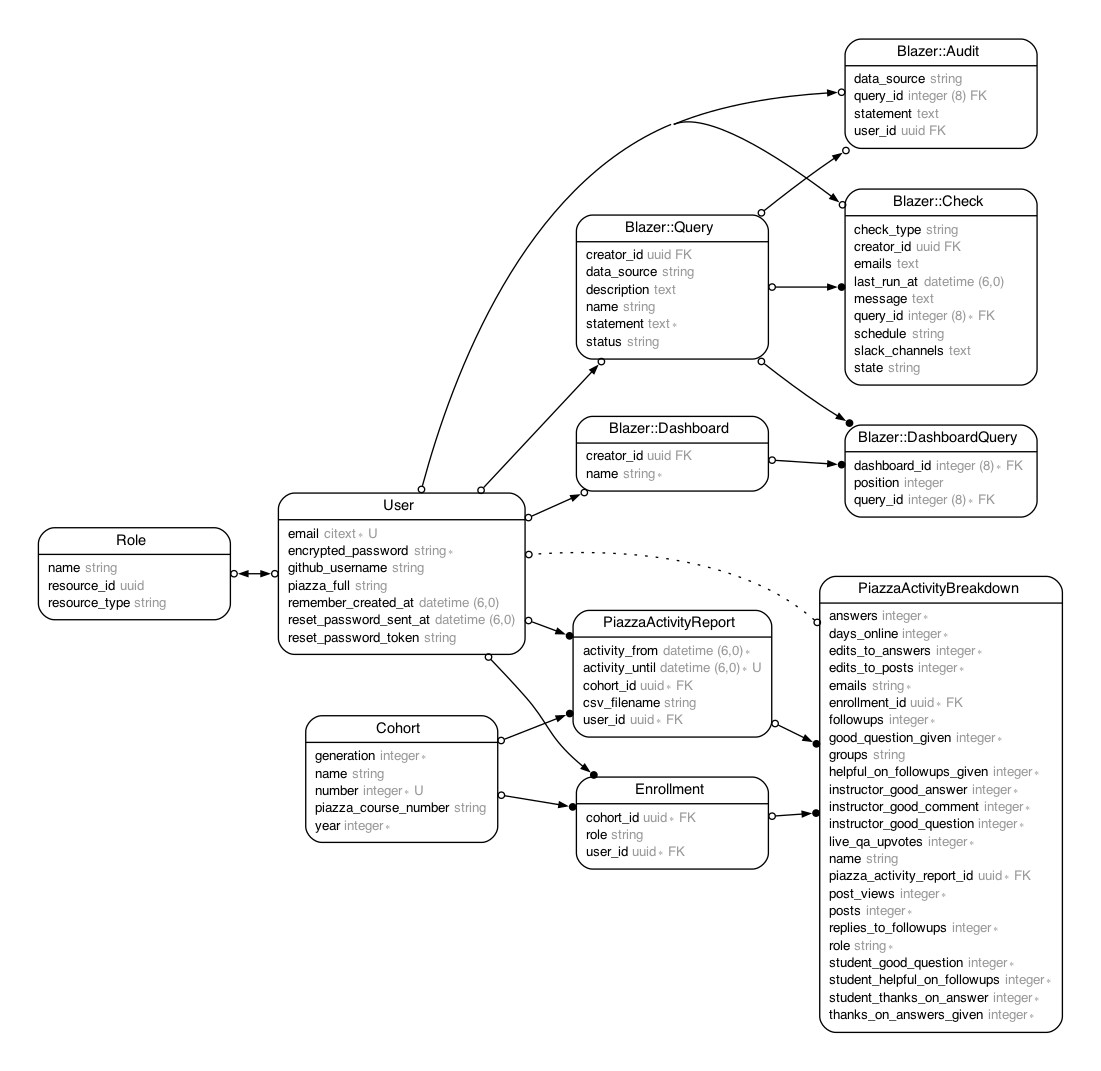
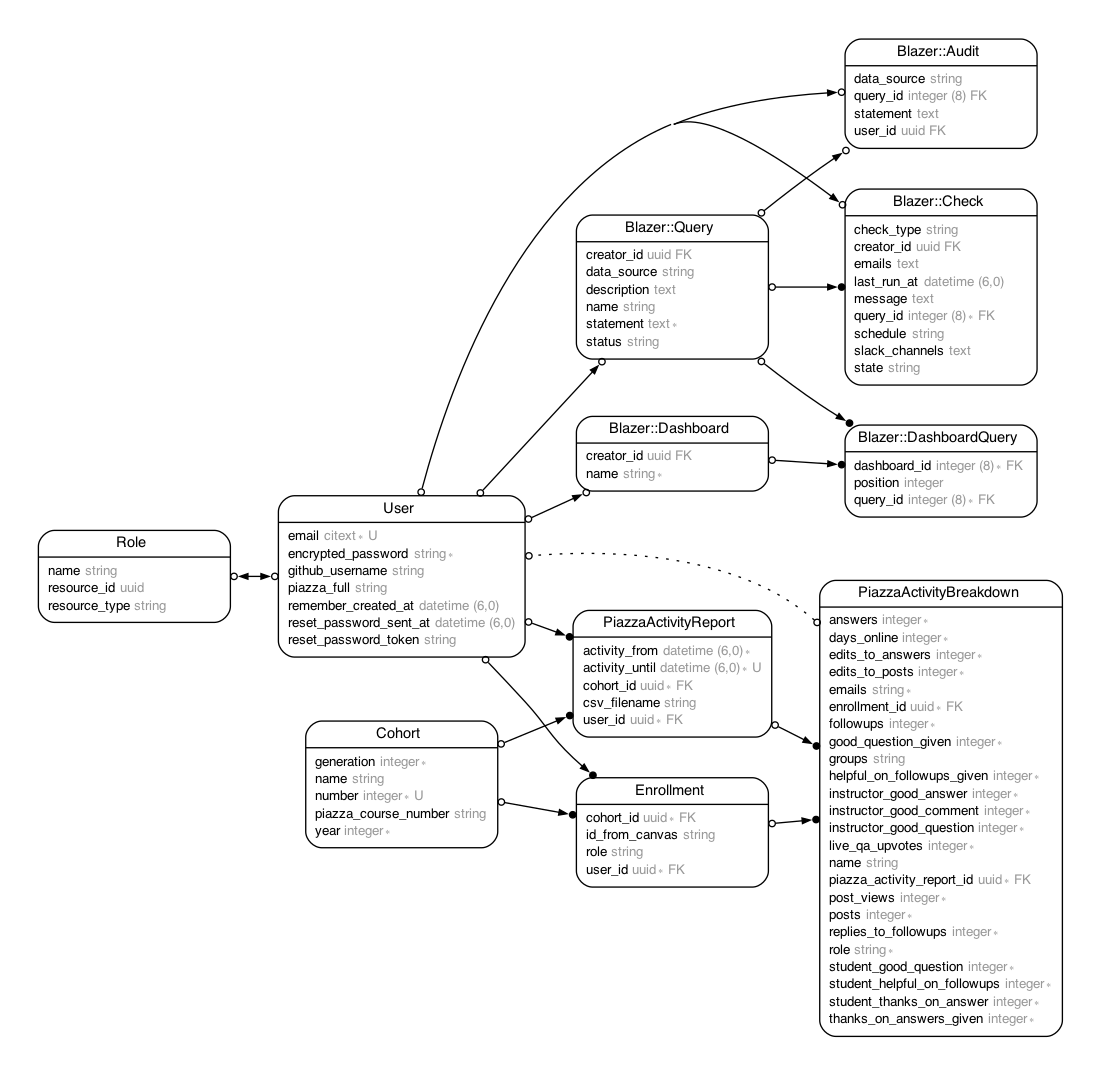
Add id_from_canvas to Enrollment

diff --git a/app/models/enrollment.rb b/app/models/enrollment.rb
@@ -2,17 +2,19 @@
 #
 # Table name: enrollments
 #
-#  id         :uuid             not null, primary key
-#  role       :string
-#  created_at :datetime         not null
-#  updated_at :datetime         not null
-#  cohort_id  :uuid             not null
-#  user_id    :uuid             not null
+#  id             :uuid             not null, primary key
+#  id_from_canvas :string
+#  role           :string
+#  created_at     :datetime         not null
+#  updated_at     :datetime         not null
+#  cohort_id      :uuid             not null
+#  user_id        :uuid             not null
 #
 # Indexes
 #
-#  index_enrollments_on_cohort_id  (cohort_id)
-#  index_enrollments_on_user_id    (user_id)
+#  index_enrollments_on_cohort_id       (cohort_id)
+#  index_enrollments_on_id_from_canvas  (id_from_canvas) UNIQUE
+#  index_enrollments_on_user_id         (user_id)
 #
 # Foreign Keys
 #

diff --git a/spec/models/enrollment_spec.rb b/spec/models/enrollment_spec.rb
@@ -2,17 +2,19 @@
 #
 # Table name: enrollments
 #
-#  id         :uuid             not null, primary key
-#  role       :string
-#  created_at :datetime         not null
-#  updated_at :datetime         not null
-#  cohort_id  :uuid             not null
-#  user_id    :uuid             not null
+#  id             :uuid             not null, primary key
+#  id_from_canvas :string
+#  role           :string
+#  created_at     :datetime         not null
+#  updated_at     :datetime         not null
+#  cohort_id      :uuid             not null
+#  user_id        :uuid             not null
 #
 # Indexes
 #
-#  index_enrollments_on_cohort_id  (cohort_id)
-#  index_enrollments_on_user_id    (user_id)
+#  index_enrollments_on_cohort_id       (cohort_id)
+#  index_enrollments_on_id_from_canvas  (id_from_canvas) UNIQUE
+#  index_enrollments_on_user_id         (user_id)
 #
 # Foreign Keys
 #

diff --git a/db/schema.rb b/db/schema.rb
@@ -10,7 +10,7 @@
 #
 # It's strongly recommended that you check this file into your version control system.
 
-ActiveRecord::Schema[7.0].define(version: 2023_03_27_204541) do
+ActiveRecord::Schema[7.0].define(version: 2023_03_27_204719) do
   # These are extensions that must be enabled in order to support this database
   enable_extension "citext"
   enable_extension "pgcrypto"
@@ -88,7 +88,9 @@ ActiveRecord::Schema[7.0].define(version: 2023_03_27_204541) do
     t.uuid "cohort_id", null: false
     t.datetime "created_at", null: false
     t.datetime "updated_at", null: false
+    t.string "id_from_canvas"
     t.index ["cohort_id"], name: "index_enrollments_on_cohort_id"
+    t.index ["id_from_canvas"], name: "index_enrollments_on_id_from_canvas", unique: true
     t.index ["user_id"], name: "index_enrollments_on_user_id"
   end
 

diff --git a/db/migrate/20230327204719_add_id_from_canvas_to_enrollment.rb b/db/migrate/20230327204719_add_id_from_canvas_to_enrollment.rb
@@ -1,0 +1,6 @@
+class AddIdFromCanvasToEnrollment < ActiveRecord::Migration[7.0]
+  def change
+    add_column :enrollments, :id_from_canvas, :string
+    add_index :enrollments, :id_from_canvas, unique: true
+  end
+end
